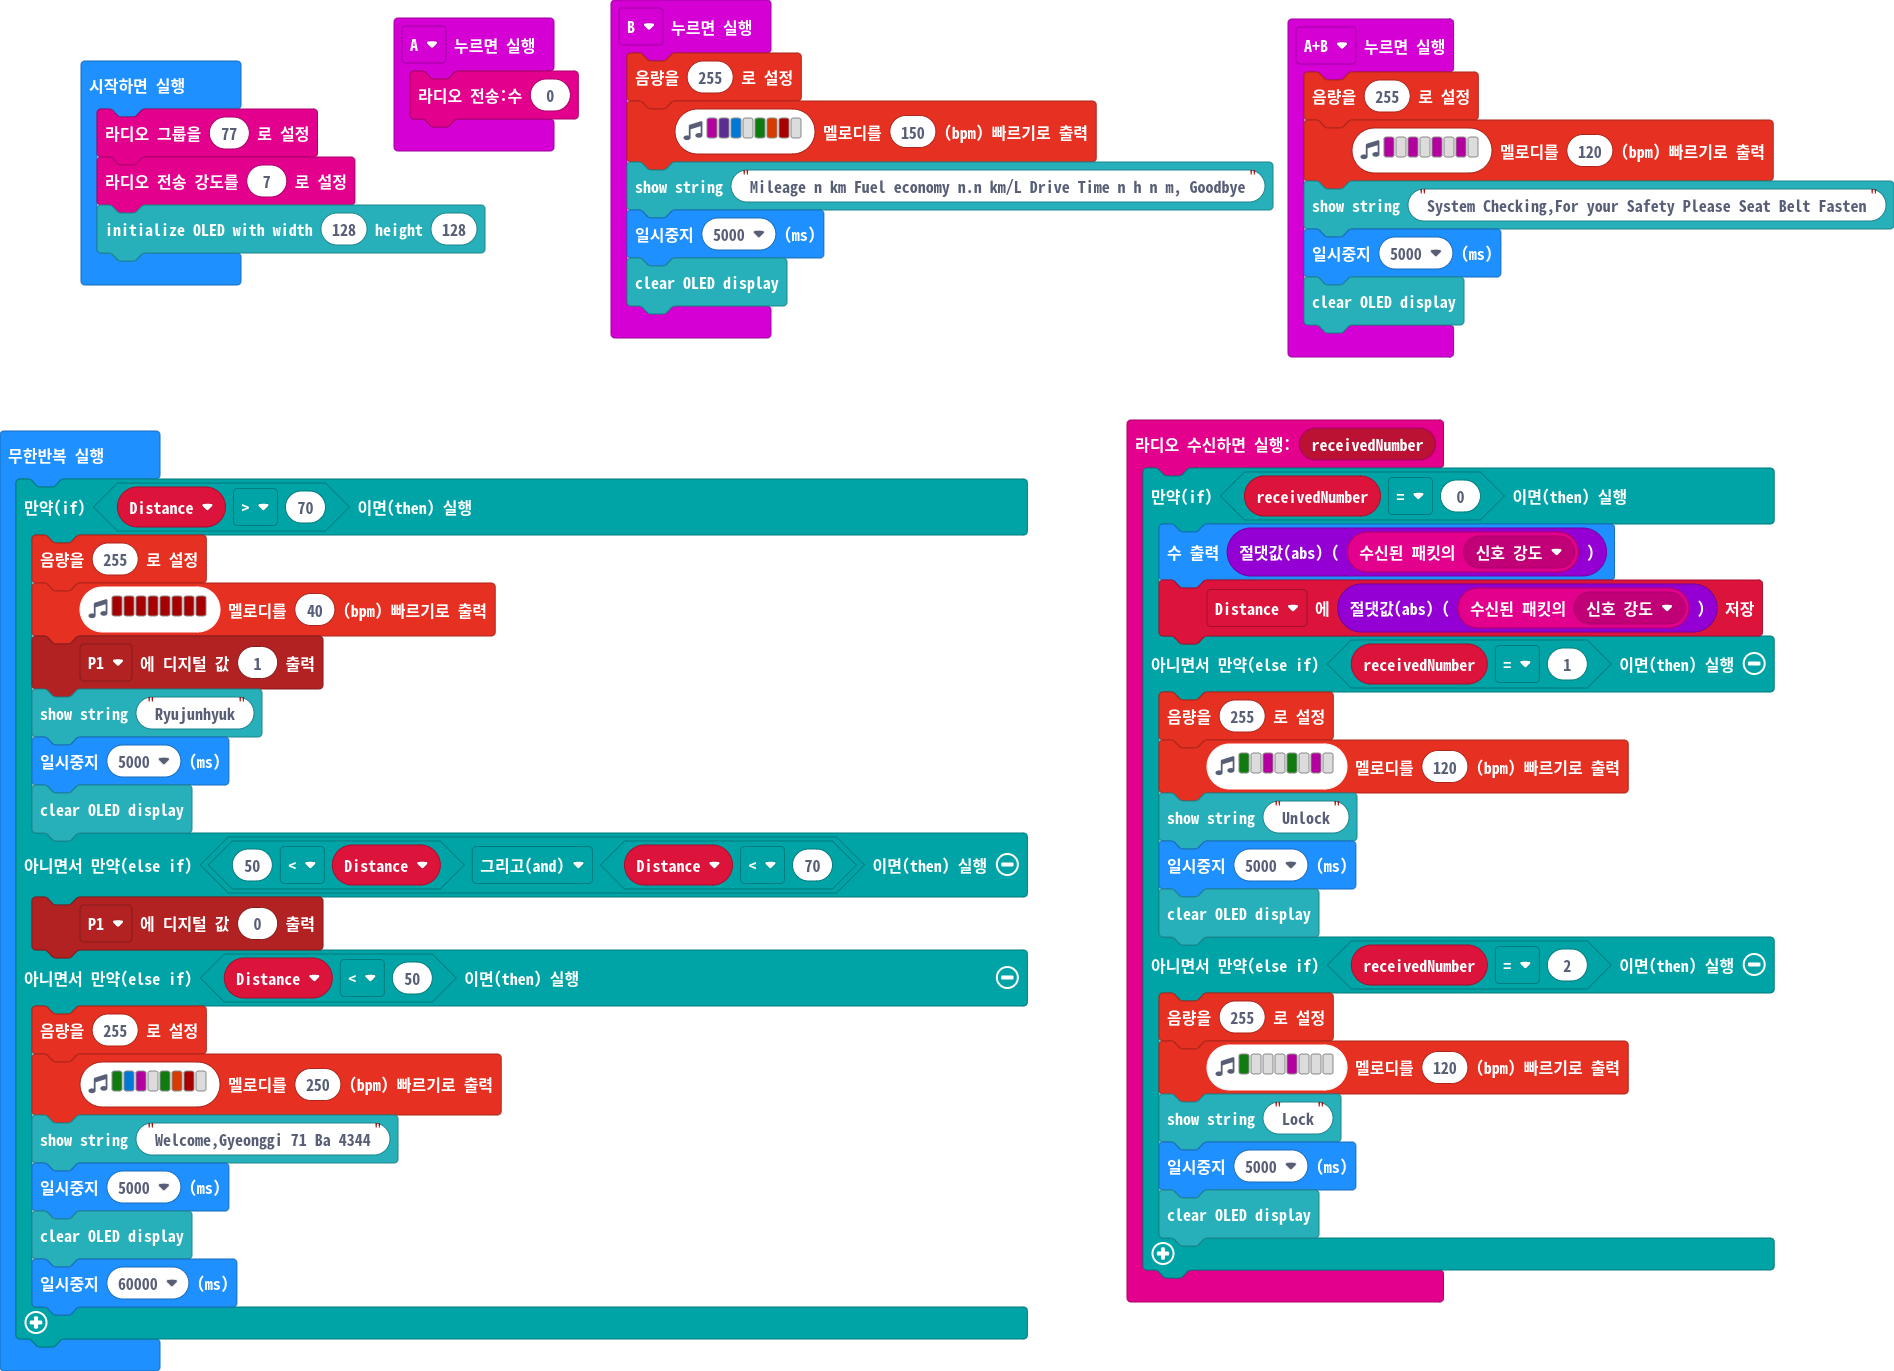
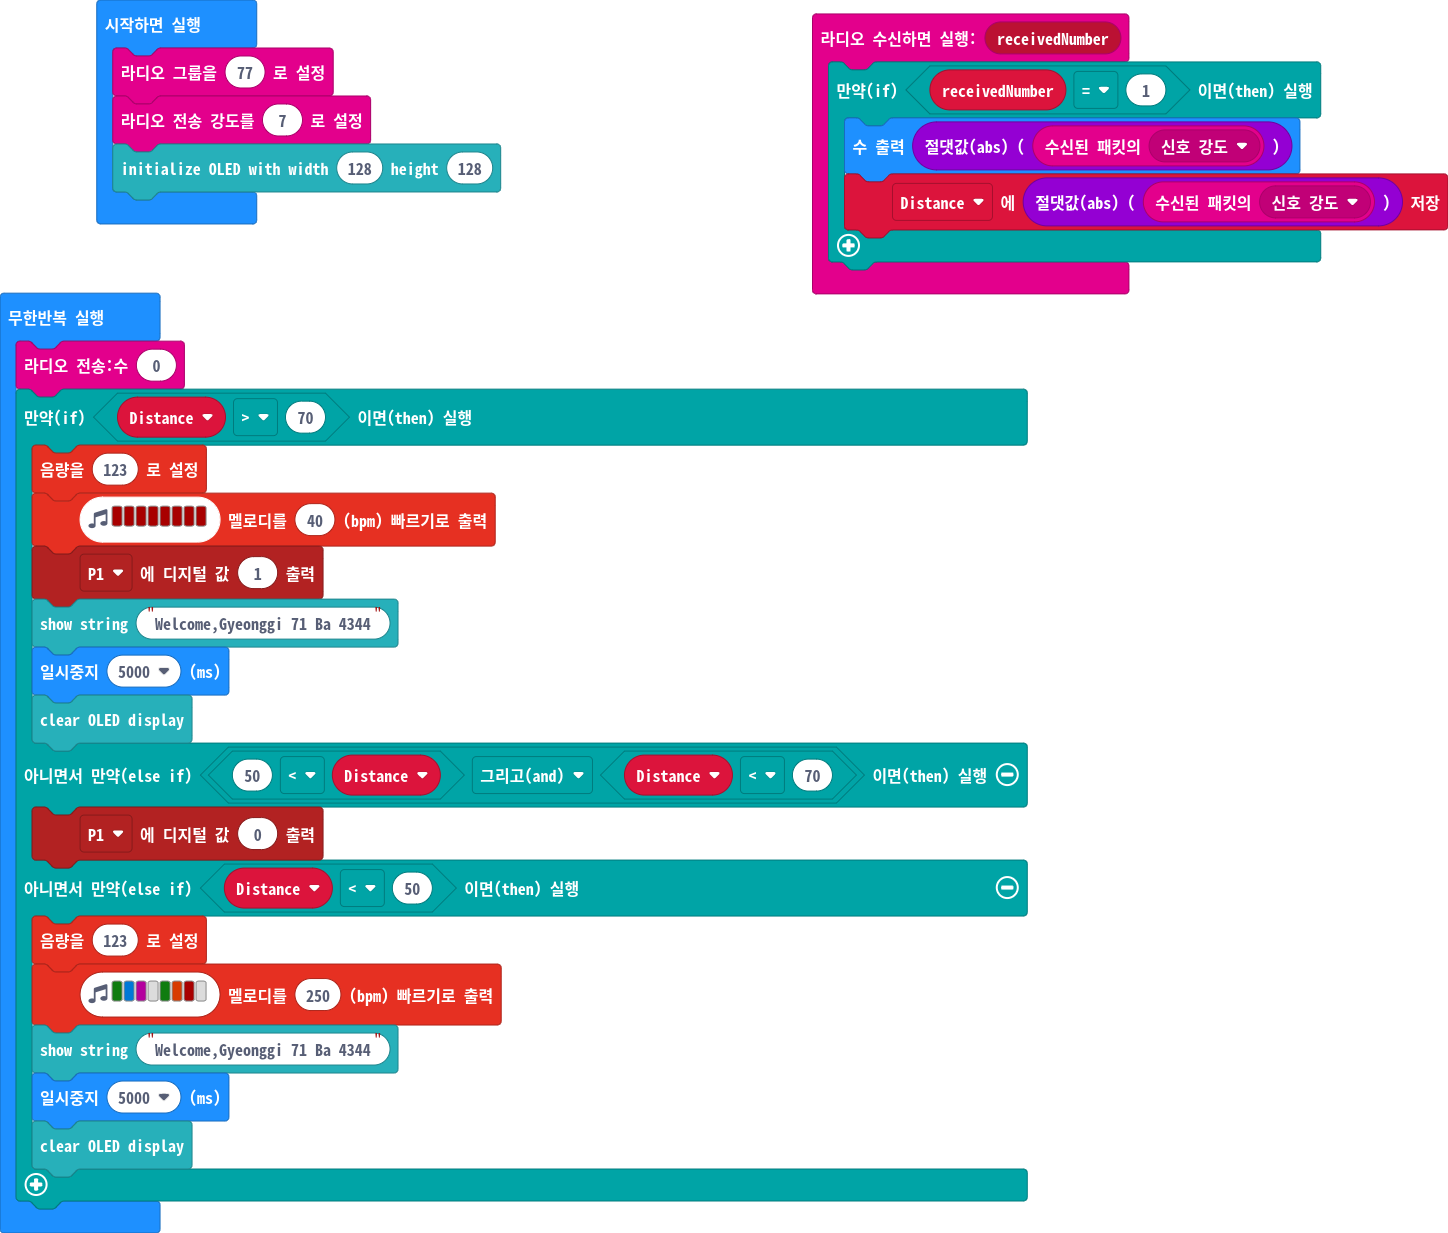
pxt.json, main.blocks, main.ts 업데이트하기

diff --git a/main.ts b/main.ts
@@ -1,58 +1,29 @@
 radio.onReceivedNumber(function (receivedNumber) {
-    if (receivedNumber == 0) {
+    if (receivedNumber == 1) {
         basic.showNumber(Math.abs(radio.receivedPacket(RadioPacketProperty.SignalStrength)))
         Distance = Math.abs(radio.receivedPacket(RadioPacketProperty.SignalStrength))
-    } else if (receivedNumber == 1) {
-        music.setVolume(255)
-        music.playMelody("G - C - G - C - ", 120)
-        OLED.writeStringNewLine("Unlock")
-        basic.pause(5000)
-        OLED.clear()
-    } else if (receivedNumber == 2) {
-        music.setVolume(255)
-        music.playMelody("G - - - C - - - ", 120)
-        OLED.writeStringNewLine("Lock")
-        basic.pause(5000)
-        OLED.clear()
     }
-})
-input.onButtonPressed(Button.A, function () {
-    radio.sendNumber(0)
-})
-input.onButtonPressed(Button.AB, function () {
-    music.setVolume(255)
-    music.playMelody("C - C - C - C - ", 120)
-    OLED.writeStringNewLine("System Checking,For your Safety Please Seat Belt Fasten")
-    basic.pause(5000)
-    OLED.clear()
-})
-input.onButtonPressed(Button.B, function () {
-    music.setVolume(255)
-    music.playMelody("C D E - G B C5 - ", 150)
-    OLED.writeStringNewLine("Mileage n km Fuel economy n.n km/L Drive Time n h n m, Goodbye")
-    basic.pause(5000)
-    OLED.clear()
 })
 let Distance = 0
 radio.setGroup(77)
 radio.setTransmitPower(7)
 OLED.init(128, 128)
 basic.forever(function () {
+    radio.sendNumber(0)
     if (Distance > 70) {
-        music.setVolume(255)
+        music.setVolume(123)
         music.playMelody("C5 C5 C5 C5 C5 C5 C5 C5 ", 40)
         pins.digitalWritePin(DigitalPin.P1, 1)
-        OLED.writeStringNewLine("Ryujunhyuk")
+        OLED.writeStringNewLine("Welcome,Gyeonggi 71 Ba 4344")
         basic.pause(5000)
         OLED.clear()
     } else if (50 < Distance && Distance < 70) {
         pins.digitalWritePin(DigitalPin.P1, 0)
     } else if (Distance < 50) {
-        music.setVolume(255)
+        music.setVolume(123)
         music.playMelody("G E C - G B C5 - ", 250)
         OLED.writeStringNewLine("Welcome,Gyeonggi 71 Ba 4344")
         basic.pause(5000)
         OLED.clear()
-        basic.pause(60000)
     }
 })
